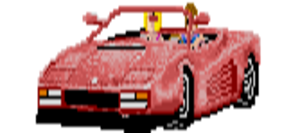
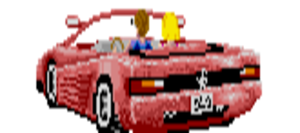
Primera versión de choques.  - Ajustar.

diff --git a/Vehicle.cpp b/Vehicle.cpp
@@ -25,15 +25,42 @@ Vehicle::Vehicle(float maxSpeed, float speedMul, float accInc, float scale, int 
     }
 }
 
-void Vehicle::resetPosition(float pX, float pY) {
+void Vehicle::setPosition(float pX, float pY) {
     posX = pX;
     posY = pY;
-    speed = 0.0f;
-    acceleration = 0.0f;
 }
 
 std::pair<float, float> Vehicle::getPosition() const {
     return make_pair(posX, posY);
+}
+
+void Vehicle::hitControl() {
+    crashing = true;
+
+    if (posX > 0.05f)
+        posX -= 0.05f;
+    else if (posX < -0.05f)
+        posX += 0.05f;
+
+    acceleration -= accInc * 2.5f;
+    if (this->getRealSpeed() > 150.0f)
+        acceleration -= accInc * 2.5f;
+    if (acceleration < 0.0f)
+        acceleration = 0.0f;
+
+    speed = sqrt(acceleration);
+    if (speed <= 0.0f) {
+        speed = 0.0f;
+        acceleration = 0.0f;
+        crashing = false;
+
+        posX = 0.0f;
+        posY = previousY;
+    }
+}
+
+bool Vehicle::isCrashing() const {
+    return crashing;
 }
 
 float Vehicle::getRealSpeed() const {
@@ -189,6 +216,29 @@ void Vehicle::draw(Config &c, const Action &a, const Direction &d, const Map::El
                     }
                 }
             }
+            else {
+                // Crash
+                if (posX > 0.0f) {
+                    if (posX > 0.05f) {
+                        if (actual_code_image < 121 || actual_code_image > 124)
+                            actual_code_image = 121;
+                    }
+                    else {
+                        if (actual_code_image < 129 || actual_code_image > 130)
+                            actual_code_image = 129;
+                    }
+                }
+                else {
+                    if (posX < -0.05f) {
+                        if (actual_code_image < 125 || actual_code_image > 128)
+                            actual_code_image = 125;
+                    }
+                    else {
+                        if (actual_code_image < 131 || actual_code_image > 132)
+                            actual_code_image = 131;
+                    }
+                }
+            }
         }
         else {
             counter_code_image++;
@@ -198,7 +248,7 @@ void Vehicle::draw(Config &c, const Action &a, const Direction &d, const Map::El
         actual_code_image = 1;
     }
 
-    sprite.setTexture(textures[actual_code_image - 1]);
+    sprite.setTexture(textures[actual_code_image - 1], true);
     sprite.setScale(scale, scale);
     minScreenX = ((float)c.w.getSize().x) / 2.0f - sprite.getGlobalBounds().width / 2.0f;
     maxScreenX = ((float)c.w.getSize().y) * c.camD - sprite.getGlobalBounds().height / 2.0f;

diff --git a/Game.cpp b/Game.cpp
@@ -61,8 +61,18 @@ State Game::play(Config &c) {
             return PAUSE;
 
         // Player update and draw
-        player.draw(c, player.accelerationControl(c), player.rotationControl(c),
-                maps[mapId.first][mapId.second].getElevation(player.getPosY()));
+        Vehicle::Action action = Vehicle::CRASH;
+        Vehicle::Direction direction = Vehicle::RIGHT;
+        if (maps[mapId.first][mapId.second].hasCrashed(c, player.getPreviousY(), player.getPosY(),
+                player.getMinScreenX(), player.getMaxScreenX()) || player.isCrashing()) {
+            player.hitControl();
+        }
+        else { // If not has crashed
+            action = player.accelerationControl(c);
+            direction = player.rotationControl(c);
+        }
+
+        player.draw(c, action, direction, maps[mapId.first][mapId.second].getElevation(player.getPosY()));
 
         // Draw speed
         string strSpeed = to_string(player.getRealSpeed());
@@ -70,8 +80,6 @@ State Game::play(Config &c) {
         c.w.draw(sText);
 
         c.w.display();
-
-        hitControl(c);
     }
 
     return EXIT;
@@ -85,11 +93,4 @@ void Game::mapControl(Config &c) {
     maps[mapId.first][mapId.second].draw(c);
 
     //TODO: Añadir bifurcaciones
-}
-
-void Game::hitControl(Config &c) {
-    // Player hits with map object
-    if (maps[mapId.first][mapId.second].hasCrashed(c, player.getPreviousY(), player.getPosY(), player.getMinScreenX(), player.getMaxScreenX())) {
-        player.resetPosition(0.0f, player.getPosition().second - 1.0f);
-    }
 }

diff --git a/Vehicle.hpp b/Vehicle.hpp
@@ -36,10 +36,14 @@ class Vehicle {
     sf::Sprite sprite;
     int actual_code_image;
     int counter_code_image; // Counter to change actual_code_image
+    bool crashing; // True if crashing state is on
+
+public:
     enum Action {
         NONE,
         BRAKE,
-        ACCELERATE
+        ACCELERATE,
+        CRASH
     };
     enum Direction {
         RIGHT,
@@ -47,7 +51,6 @@ class Vehicle {
         TURNRIGHT
     };
 
-public:
     /**
      * Inicializa el vehículo.
      * @param maxSpeed
@@ -62,17 +65,28 @@ public:
             const std::string &vehicle);
 
     /**
-     * Establece la posición actual del vehículo y resetea la velocidad y la aceleración.
+     * Establece la posición actual del vehículo.
      * @param pX
      * @param pY
      */
-    void resetPosition(float pX, float pY);
+    void setPosition(float pX, float pY);
 
     /**
      * Devuelve la posición actual del vehículo.
      * @return {posX, posY}
      */
     std::pair<float, float> getPosition() const;
+
+    /**
+     * Actualiza la lógica del choque y restablece la velocidad y aceleración.
+     */
+    void hitControl();
+
+    /**
+     * Devuelve true si la lógica de choque está en ejecución.
+     * @return
+     */
+    bool isCrashing() const;
 
     /**
      * Devuelve la velocidad real del vehículo.

diff --git a/Game.hpp b/Game.hpp
@@ -35,12 +35,6 @@ class Game {
      */
     void mapControl(Config &c);
 
-    /**
-     * Comprueba si los vehículos se han chocado.
-     * @param c
-     */
-    void hitControl(Config &c);
-
 public:
     /**
      * Inicializa la lógica del juego y carga los vehículos y los mapas.
